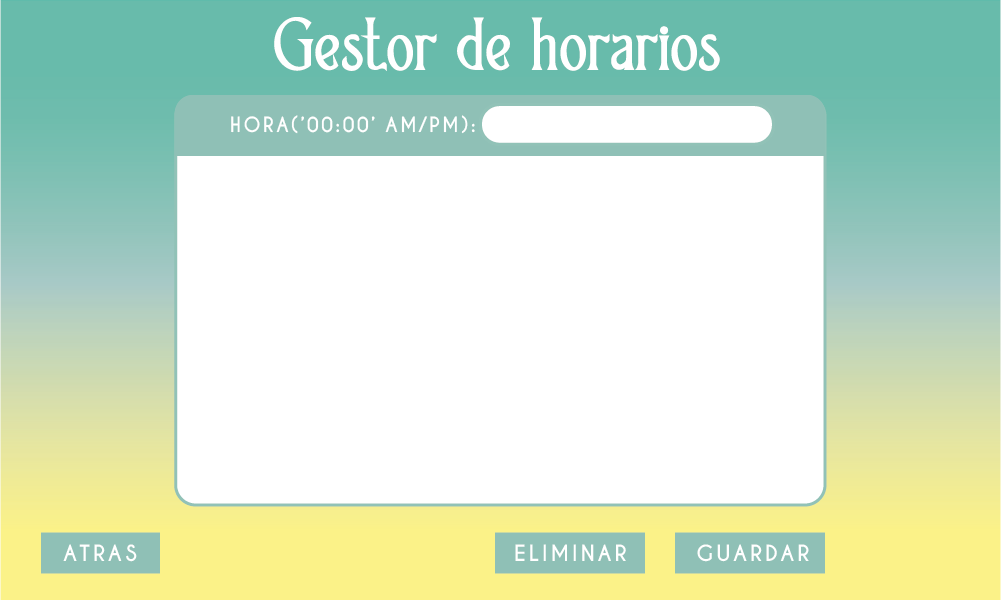
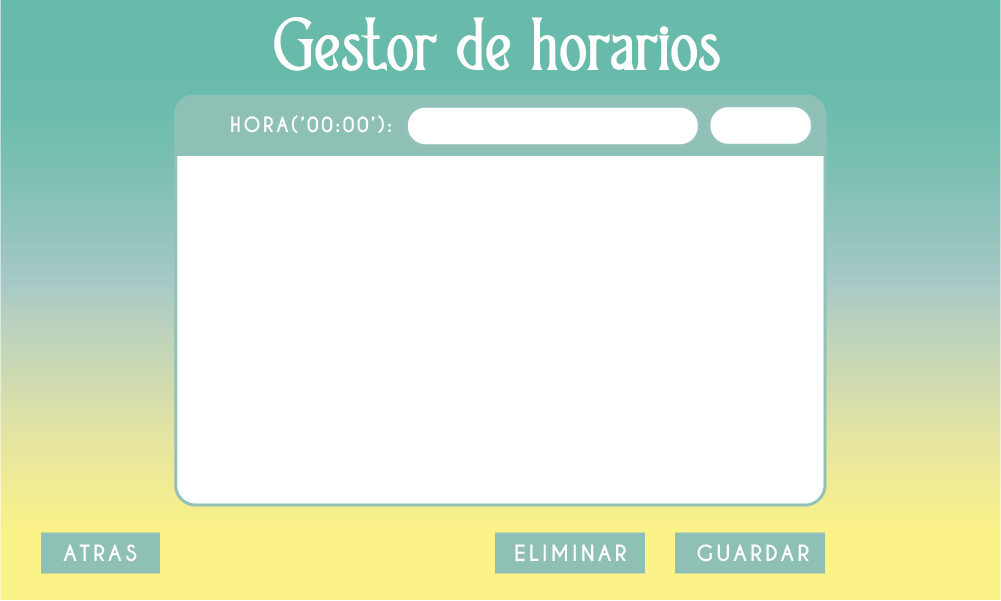
Add files via upload
ajustes a la pestaña de hora admin y pequeños bug fixes

Changed region(s): [[0.3716, 0.1498, 0.8052, 0.2396]]

diff --git a/Desktop VetPerrito/Horadmin.py b/Desktop VetPerrito/Horadmin.py
@@ -45,12 +45,12 @@ tvagenda.heading("id",text="ID",anchor=CENTER)
 tvagenda.heading("horarios",text="Horarios",anchor=CENTER)
 
 txtampm=ttk.Combobox(ventana,values=[" AM"," PM"], textvariable=ampm)
-txtampm.place(x=800,y=110,width=60,height=28)
+txtampm.place(x=730,y=112,width=60,height=28)
 txtampm.current(0)
 
 
 txthora=Entry(ventana, textvariable=hora)
-txthora.place(x=500,y=110,width=260,height=28)
+txthora.place(x=424,y=112,width=260,height=28)
 
 
 
@@ -61,15 +61,15 @@ txthora.place(x=500,y=110,width=260,height=28)
 
 
 #funciones
-def seleccionar(event):
-    id= tvagenda.selection()[0]
-    if int(id)>0:
-     hora.set(tvagenda.item(id,"values")[1])
+#def seleccionar(event):
+ #   id= tvagenda.selection()[0]
+  #  if int(id)>0:
+   #  hora.set(tvagenda.item(id,"values")[1])
 
 def validar():
     return len(hora.get())>0   
 
-tvagenda.bind("<<TreeviewSelect>>",seleccionar)
+tvagenda.bind("<<TreeviewSelect>>")
 
 tvagenda.config(selectmode=BROWSE)
 
@@ -93,13 +93,13 @@ def llenatabla():
         tvagenda.insert("",END,id,text="Horarios", values=fila)       
 
 def nuevo():
-  
+    
     
     if validar():
        
-       val=(hora.get())
-       sql="insert into Horarios (horarios) values (%s)"
-       db.cursor.execute(sql, (val,))
+       val=(hora.get(),ampm.get())
+       sql="insert into Horarios (horarios) values (%s %s)"
+       db.cursor.execute(sql,val)
        db.connection.commit() 
        messagebox.showinfo("Aviso","Se Guardo El Registro Correctamente")
        llenatabla()
